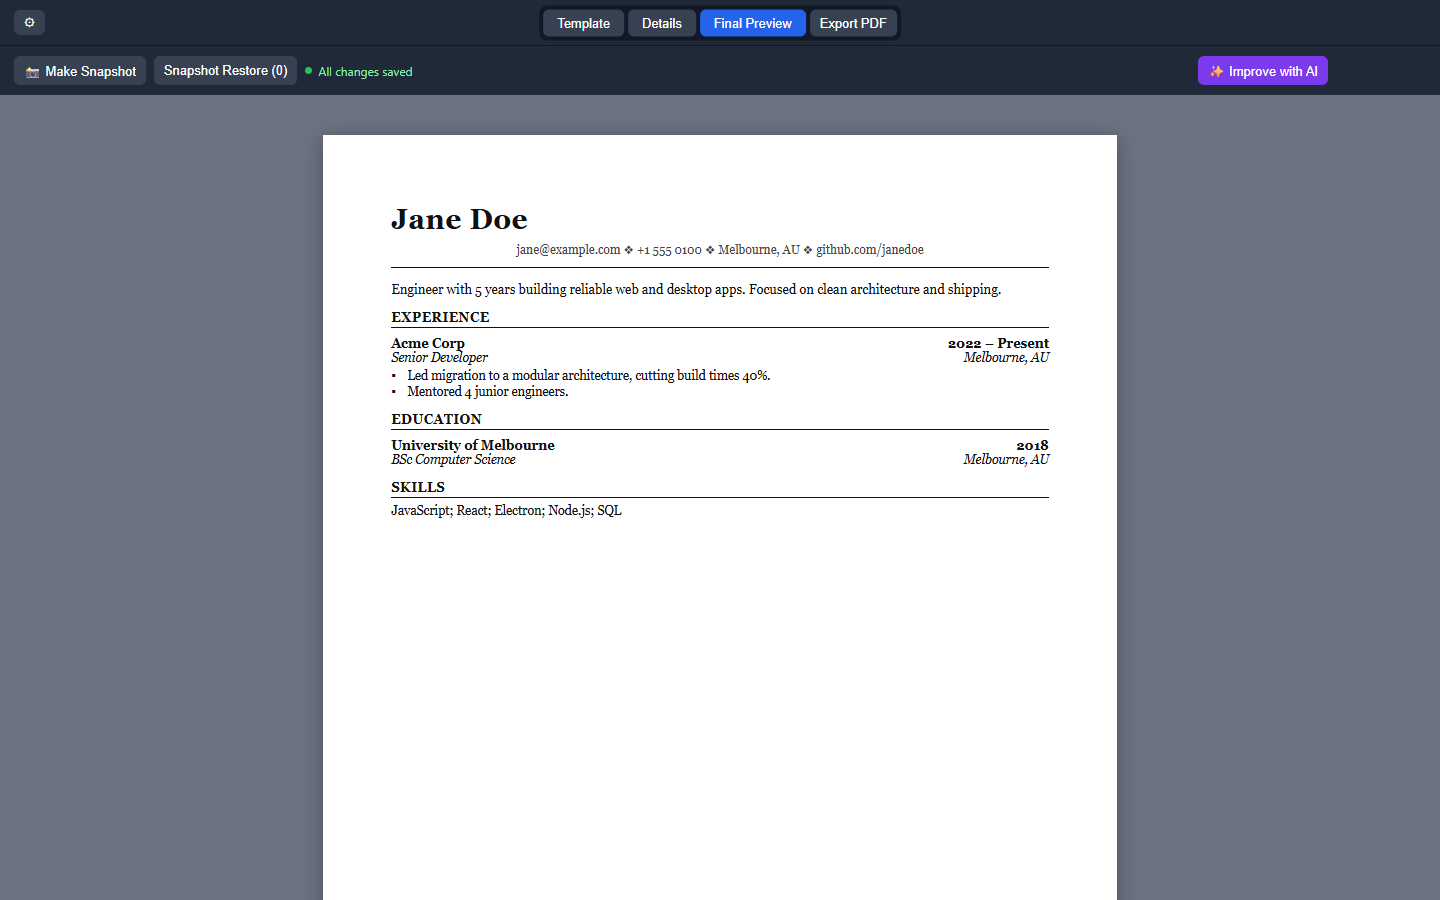
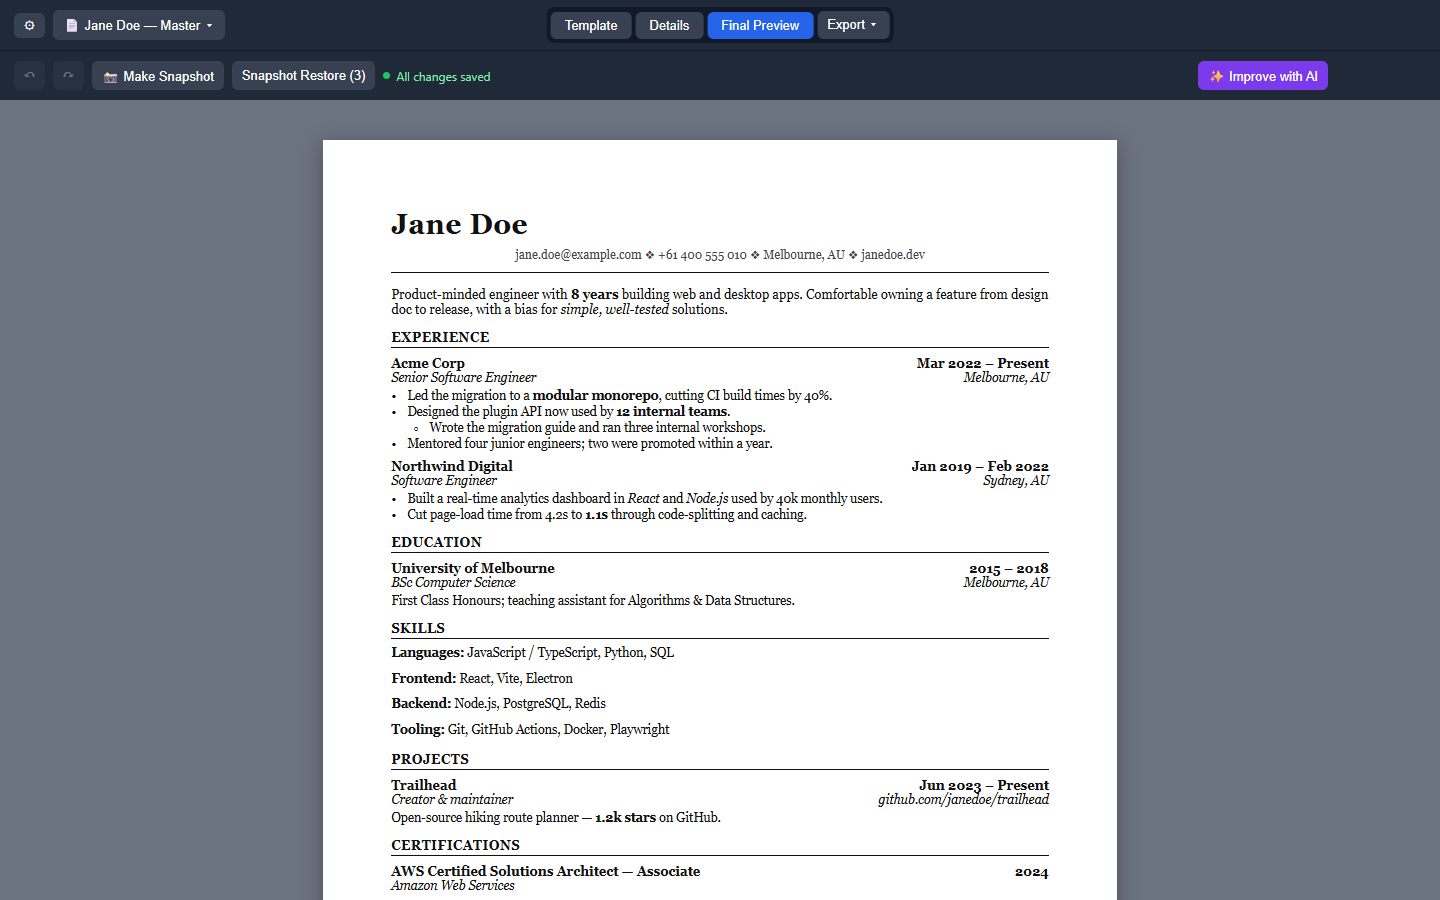
docs: refresh README, changelog, and all screenshots for 2.2.6
- CHANGELOG: add the missing 2.2.1-beta.1 / 2.2.5 / 2.2.6 entries
- README: document profiles, DOCX/TXT export, dark mode, undo/redo,
  Links/Languages sections; new screenshots table
- Regenerate all 7 screenshots at 2.2.6 and add 3 new ones
  (profiles, export, dark-mode)
- Add scripts/docs-screenshots.mjs — reusable Playwright + vite preview
  screenshot generator with seeded multi-profile sample data

diff --git a/README.md b/README.md
@@ -6,23 +6,31 @@ A free, open-source, cross-platform resume builder built with **Electron + React
 
 ## Features
 
-- **Customizable resume sections** — Experience, Education, Skills, Projects, Certifications, and free-form Custom sections; add, remove, rename, and reorder whole sections, and reorder individual entries within a section
+- **Multiple resume profiles** — keep a master resume plus tailored copies per application; New / Duplicate / Rename / Delete from a toolbar dropdown, with per-profile autosave, snapshots, and undo history
+- **Export to PDF, Word (.docx), and plain text (.txt)** — bold/italic become real Word formatting, bullet/numbering styles become real Word numbering, links become clickable hyperlinks; plain text is the most ATS-safe format
+- **Dark mode** — three-way System / Light / Dark, applied before first paint (no white flash); the resume preview stays paper-white, because it represents the printed page
+- **Customizable resume sections** — Experience, Education, Skills, Projects, Certifications, Languages, Links, and free-form Custom sections; add, remove, rename, and reorder whole sections, and reorder individual entries within a section
 - **Three templates** — Classic, Modern, and Resumatic (serif, bold header), switchable from a live-thumbnail template gallery
 - **Template / Details / Final Preview workspace** — pick a template visually, edit in the section-based form, then check a clean chrome-free preview before exporting
 - **WYSIWYG bold/italic** — Experience descriptions, Custom Section, and Skills render real bold/italic as you type, no visible `**`/`*` markup; combinable into bold+italic, with a Word/LibreOffice-style bullet & numbering picker (•, ○, ▪, –, 1., a., A., i., I.), an intro-sentence-before-the-list option, and Word-style list editing (Ctrl+]/Ctrl+[ to indent, Enter continues the list)
+- **Undo/redo** — Ctrl+Z / Ctrl+Y plus ↶/↷ toolbar buttons; rapid edits coalesce so undo rewinds a typing burst, not a keystroke
 - **Month/year date picker** — click a Start/End field (Experience, Education, Projects) for a year navigator and month grid, with a "Present" quick-pick and future dates blocked automatically
-- **Autocomplete & autocorrect** — suggestion dropdowns for Title, Role, Skill, and Degree fields, plus real spellcheck with right-click correction suggestions
+- **Autocomplete & autocorrect** — suggestion dropdowns for Title, Role, Skill, Degree, and Language-proficiency fields, plus real spellcheck with right-click correction suggestions
 - **Snapshot backups** — take a named, timestamped snapshot at any point, then browse/restore/rename/delete from a table, with a confirmation warning before restoring
 - **Autosave status indicator** — "Saving…" / "All changes saved" in the toolbar
 - **Save / Open as JSON** — via the native File menu (Ctrl+O / Ctrl+Shift+S) — keep multiple resume files and reopen them anytime
-- **Export to PDF** — one click, ready to send to employers
-- **AI Improve button** — stubbed in for an upcoming AI-assisted rewrite feature
+- **Automatic update check** — checks GitHub Releases on launch, plus a manual "Check for Updates" button in Settings
+- **Tested** — Vitest unit tests plus a Playwright e2e suite driving the real Electron app; the full suite gates every push and every release build
 
 ## Screenshots
 
-| Template gallery | Final preview |
+| Resume profiles | Dark mode |
 |---|---|
-| ![Template gallery](docs/screenshots/template-gallery.png) | ![Final preview](docs/screenshots/final-preview.png) |
+| ![Resume profiles](docs/screenshots/profiles.png) | ![Dark mode](docs/screenshots/dark-mode.png) |
+
+| Template gallery | Export formats |
+|---|---|
+| ![Template gallery](docs/screenshots/template-gallery.png) | ![Export dropdown](docs/screenshots/export.png) |
 
 | Text formatting & sub-bullets | Named snapshots |
 |---|---|
@@ -36,7 +44,7 @@ Get the latest build from the [Releases page](https://github.com/AbhisekkumarSha
 
 - **Windows** — installer (`Setup.exe`) or portable (`.exe`)
 - **macOS** — `.dmg` for Apple Silicon or Intel (built via CI, currently untested on real Mac hardware)
-- **Linux** — `.AppImage` (built via CI, currently untested on a real Linux machine) — see the [wiki's Linux install/run instructions](https://github.com/AbhisekkumarShandilya/openresume-builder/wiki/Installation#linux) for `chmod +x`, FUSE troubleshooting, and desktop integration
+- **Linux** — `.AppImage` (built via CI, verified on a real Linux kernel via WSL2/WSLg) — see the [wiki's Linux install/run instructions](https://github.com/AbhisekkumarShandilya/openresume-builder/wiki/Installation#linux) for `chmod +x`, FUSE troubleshooting, and desktop integration
 
 These are unsigned builds, so Windows SmartScreen / macOS Gatekeeper will warn about an unidentified developer the first time you run one.
 
@@ -46,7 +54,7 @@ See the [Roadmap wiki page](https://github.com/Abhisek571/openresume-builder/wik
 
 ## Contributing / running from source
 
-See [DEVELOPMENT.md](DEVELOPMENT.md) for setup, running in dev mode, and building installers yourself.
+See [DEVELOPMENT.md](DEVELOPMENT.md) for setup, running in dev mode, testing, and building installers yourself.
 
 ## License
 

diff --git a/CHANGELOG.md b/CHANGELOG.md
@@ -1,5 +1,23 @@
 # Changelog
 
+## 2.2.6
+
+Stable release promoting the accumulated 2.2.x work (everything from 2.2.0-beta.1 through 2.2.5 below) to the stable channel. No app changes beyond 2.2.5 — this release stabilized the e2e smoke test on CI (the profile-switcher popover is now opened via a direct DOM click instead of a coordinate click, which could land on the overlapping centered tab group on the CI runner's small virtual display).
+
+## 2.2.5
+
+- Added **multiple resume profiles** — keep a master resume plus tailored copies per application, switched from a new 📄 toolbar dropdown. New / Duplicate ("Copy of …") / Rename / Delete; deleting a profile drops a final "insurance" snapshot of it under the profile you land on, so a mis-click is recoverable. Autosave, snapshots, and undo history are all per-profile, and switching profiles clears the undo stack (Ctrl+Z can't rewind into another document). Existing single-resume data migrates automatically (and verifiably — the legacy key is only removed after the copy is confirmed readable).
+- Added **export to Word (.docx) and plain text (.txt)** alongside PDF, from a new Export ▾ dropdown. Bold/italic map to real Word runs (not literal `**`), the bullet & numbering picker maps to real Word numbering definitions (not literal "•" characters), and Links become real clickable hyperlinks in the .docx. Plain text is the most ATS-safe format. All three formats are fed by one shared export model (`src/exportModel.js`) so they can't drift from the preview, and exports use a consistent `{Name} — Resume.ext` filename.
+- Added **dark mode** — a three-way System / Light / Dark appearance setting in the Settings popover. System follows the OS (and reacts live when the OS flips); the choice applies before first paint on launch, so there's no white flash. The resume preview intentionally stays paper-white in dark mode — it represents the printed page. Electron's own menus and dialogs follow the setting too.
+- Added **undo/redo** — Ctrl+Z / Ctrl+Y / Ctrl+Shift+Z plus ↶/↷ toolbar buttons. Rapid edits within 600ms coalesce into a single undo step, so undo rewinds a typing burst rather than one keystroke at a time.
+- Added dedicated **Links** and **Languages** section types. Links show their label in the resume with the URL as a real clickable anchor in the preview/PDF (and a real hyperlink in Word); a missing `https://` is prepended automatically, with a non-blocking "doesn't look like a URL" hint for typos. Languages render compactly inline — `English (Native) · German (B2)` — instead of one card-height row each, with autocomplete for proficiency levels (Native/Fluent/… and CEFR A1–C2).
+- Release builds are now gated on the full test suite — lint, unit tests, and the Playwright e2e suite run on every push, and the Windows/macOS/Linux release workflows require them to pass before uploading installers, so a broken tag can't publish.
+- The e2e smoke test now drives a realistic resume persona instead of placeholder content.
+
+## 2.2.1-beta.1
+
+- Version numbers now display in a friendly `major.minor.patch` + "beta N" form in the Settings popover and update dialogs.
+
 ## 2.2.0-beta.1
 
 - Added a real WYSIWYG editor for the Experience description: bold/italic render for real, with no visible `**`/`*` markers while typing, instead of the old textarea showing raw markup. Also applied to the Custom Section field and to each Skill row. Under the hood it still stores the same marker-string format the preview already parsed, so no data migration was needed.
